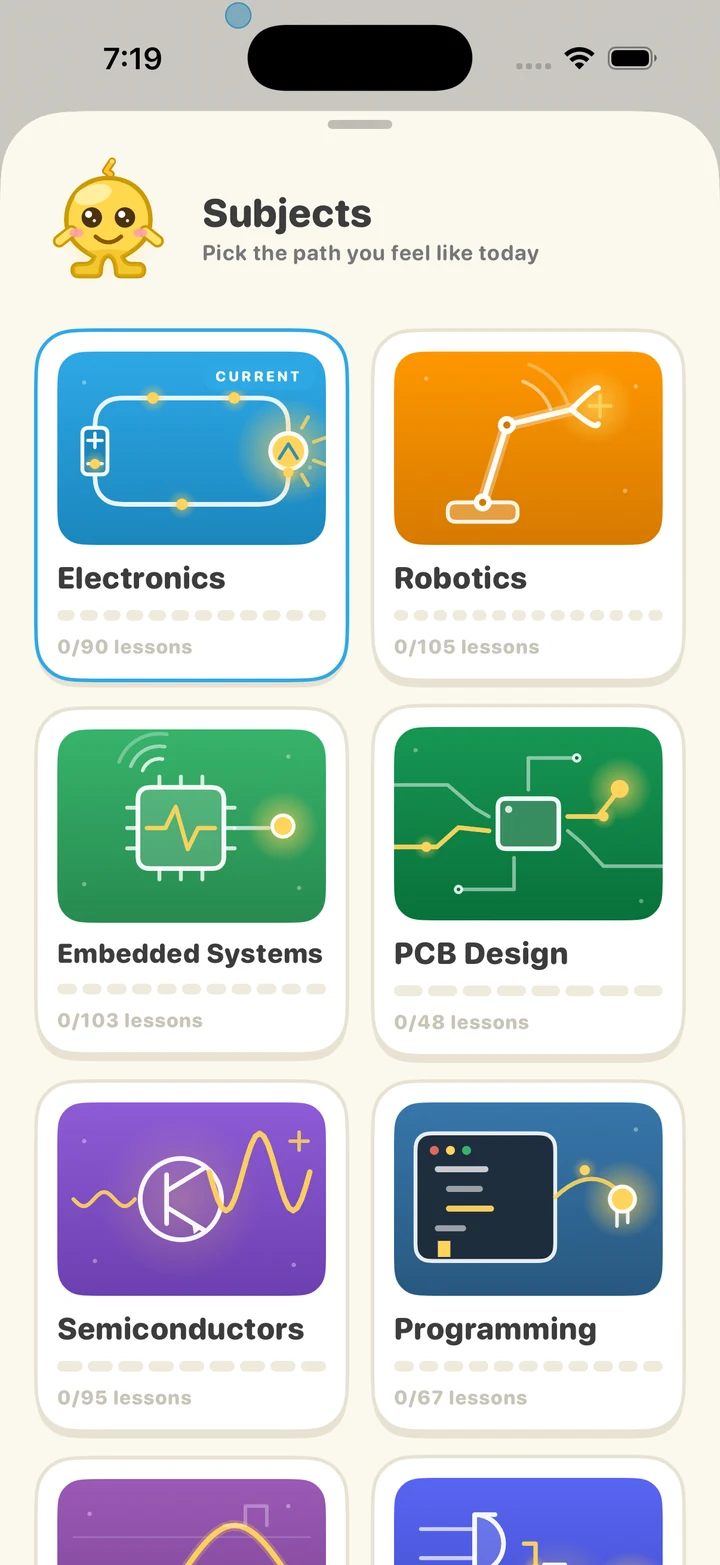
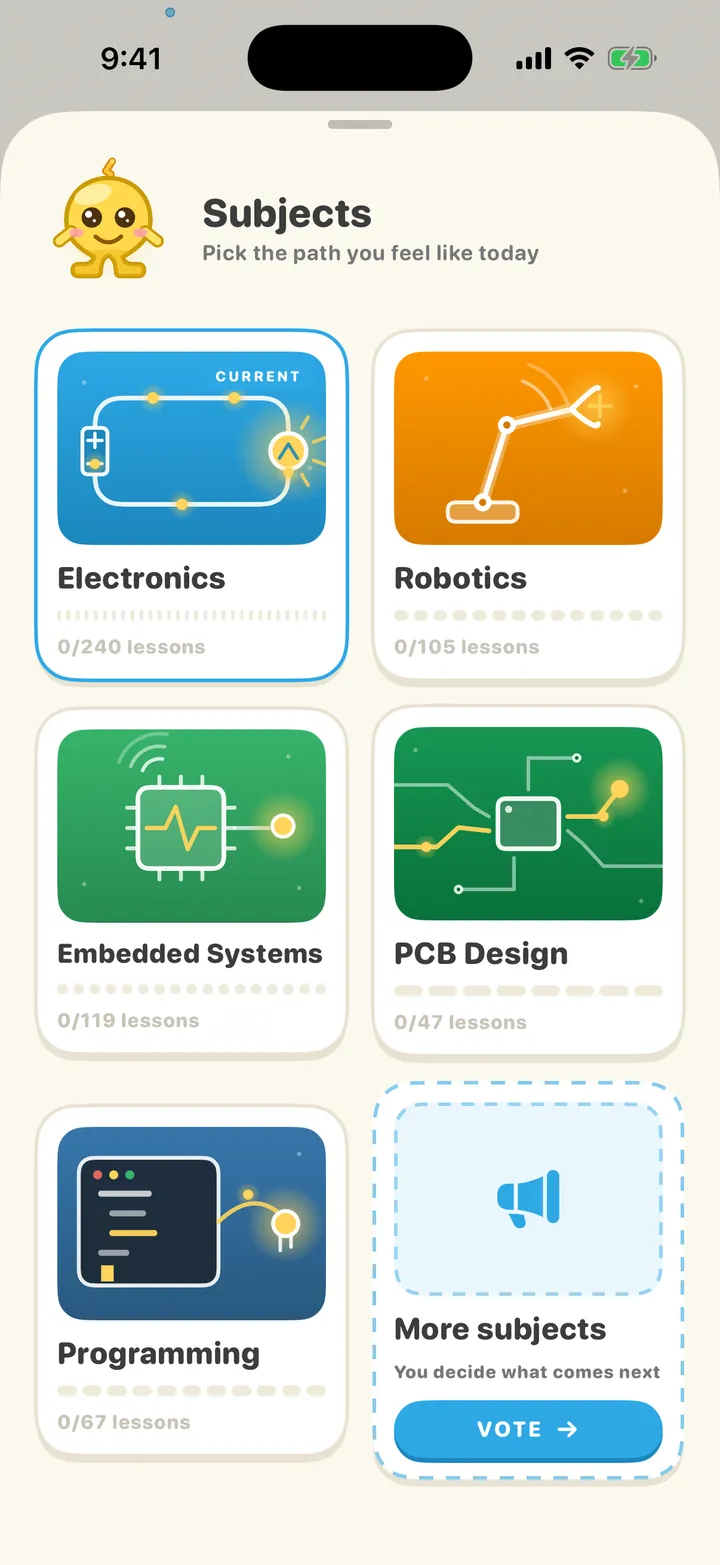
The site's nine screenshots are 1.5.9 now, and Ohmie World sits in a phone turned on its side
Every still was captured from main 798ebc2bc (the shipped 1.5.9 code) on a throwaway iPhone 17
simulator, subject mode off as in Release, Ohmie plain so the shots outlast November 1:

- cap-03 hero: Home on a fresh save (Section 1 of 4, today's quests, the Enter the Arena card)
- cap-10 Subjects: the five subjects and the vote card (Semiconductors is gone)
- cap-05 Fix the circuit: lesson 15's fault-repair bench, the same scene with the shipped copy
- cap-milestone: Explore, a 12-day streak and the Level 12 card
- cap-04: lesson one's Break the loop bench (was lesson 15's opening page), renamed lesson0
- cap-06 Explore: start a streak, join the leaderboard, the Arena card, search, topic chips
- cap-leaderboard: the app's local mock board (-lbMock); no real player's name or XP
- cap-07 Copper Town: landscape, as 1.5.9 plays it, in a sideways phone (.tile-wide,
  .phone-wrap-wide, .phone-wide: the same bezel and corners turned)
- cap-programming: the Programming sheet with the Python | C++ switch (the old language
  chooser over the grid no longer exists)

Same pixel sizes as before (720x1565, 603x1311; the world 1565x720), 403 KB in all against
419 KB. Alt texts say what each new picture shows; the hero comment names the build;
styles.css?v=20261009b.

Claude-Session: https://claude.ai/code/session_018CFMCaJJDZ6icKGPkBoWoJ

diff --git a/index.html b/index.html
@@ -33,12 +33,12 @@
   <link rel="icon" type="image/png" href="assets/favicon.png?v=20261005">
   <link rel="apple-touch-icon" href="assets/apple-touch-icon.png?v=20261005">
 
-  <!-- hero capture: the 1.5.2 home screen (redesign 2026-09-14) -->
+  <!-- hero capture: the 1.5.9 home screen (main 798ebc2bc, captured 2026-10-09) -->
   <link rel="preload" as="image" href="assets/cap-03-home-circuits-2x.webp" fetchpriority="high">
 
   <link rel="preload" as="font" type="font/woff2" href="assets/fonts/nunito-latin-var.woff2" crossorigin>
 
-  <link rel="stylesheet" href="styles.css?v=20261009">
+  <link rel="stylesheet" href="styles.css?v=20261009b">
 
   <!-- PostHog analytics — cookieless: memory-only persistence (no cookies or
        localStorage), no autocapture, no session recording. Pageviews, pageleaves,
@@ -102,7 +102,7 @@
     <div class="hero-visual">
       <div class="phone-wrap">
         <div class="phone">
-          <img src="assets/cap-03-home-circuits-2x.webp" alt="Home: Section 1 Electronics, today's three quests, and the first lesson ready to start" width="720" height="1565" fetchpriority="high" decoding="async">
+          <img src="assets/cap-03-home-circuits-2x.webp" alt="Home: Section 1 of 4, Charge &amp; Electrons, today's three quests, and the Enter the Arena card" width="720" height="1565" fetchpriority="high" decoding="async">
         </div>
       </div>
       <img src="assets/ohmie-happy.webp" alt="" class="hero-mascot" id="heroMascotImg" width="150" height="145" decoding="async">
@@ -153,14 +153,14 @@
     <div class="steps">
       <div class="step reveal">
         <div class="phone-wrap">
-          <div class="phone"><img src="assets/cap-10-subjects-2x.webp" alt="Subjects: pick the path you feel like today, from Electronics to Robotics" width="720" height="1565" loading="lazy" decoding="async"></div>
+          <div class="phone"><img src="assets/cap-10-subjects-2x.webp" alt="Subjects: pick the path you feel like today, from Electronics to Programming" width="720" height="1565" loading="lazy" decoding="async"></div>
         </div>
         <h3><span class="n">1.</span> Pick today's lesson</h3>
         <p>A short lesson picks up right where you left off.</p>
       </div>
       <div class="step reveal">
         <div class="phone-wrap">
-          <div class="phone"><img src="assets/cap-05-circuit-fix-2x.webp" alt="A fault-repair bench: power off, remove the bridge, and the lamp lights" width="720" height="1565" loading="lazy" decoding="async"></div>
+          <div class="phone"><img src="assets/cap-05-circuit-fix-2x.webp" alt="A fault-repair bench: a dark board with an open fuse, a live-source warning, and the Power off and Remove bridge buttons" width="720" height="1565" loading="lazy" decoding="async"></div>
         </div>
         <h3><span class="n">2.</span> Fix the circuit</h3>
         <p>Answer real questions and fix live circuits by hand.</p>
@@ -186,7 +186,7 @@
       <div class="tile tile-blue">
         <div class="phone-wrap">
           <div class="phone">
-            <img src="assets/cap-04-lesson15-2x.webp" alt="A lesson page in Ohmie: every dead gadget died one of two deaths, an open-bridge circuit below, and a Continue button" width="720" height="1565" loading="lazy" decoding="async">
+            <img src="assets/cap-04-lesson0-2x.webp" alt="Lesson one's bench: Break the loop. Anywhere. A battery, a glowing lamp, and four bridges to tap open" width="720" height="1565" loading="lazy" decoding="async">
           </div>
         </div>
       </div>
@@ -201,11 +201,11 @@
     <div class="row row-flip reveal">
       <div class="tile tile-deep tile-duo">
         <div class="phone-wrap">
-          <div class="phone"><img src="assets/cap-06-explore-2x.webp" alt="Explore tab: a start-a-streak week row, join this week's leaderboard, search, and topic chips like Electricity Basics and Ohm's Law" width="720" height="1565" loading="lazy" decoding="async"></div>
+          <div class="phone"><img src="assets/cap-06-explore-2x.webp" alt="Explore tab: a start-a-streak week row, join this week's leaderboard, the Enter the Arena card, search, and topic chips like Electricity Basics and Resistors" width="720" height="1565" loading="lazy" decoding="async"></div>
         </div>
         <div class="phone-wrap">
           <div class="phone">
-            <img src="assets/cap-leaderboard-w.webp" alt="The weekly leaderboard: this week's top 50, ranked by XP" width="720" height="1565" loading="lazy" decoding="async">
+            <img src="assets/cap-leaderboard-w.webp" alt="The weekly leaderboard: this week's top 50 ranked by XP, with your own row and how far ahead the next player is" width="720" height="1565" loading="lazy" decoding="async">
           </div>
         </div>
       </div>
@@ -217,10 +217,10 @@
     </div>
 
     <div class="row reveal">
-      <div class="tile tile-amber">
-        <div class="phone-wrap">
-          <div class="phone">
-            <img src="assets/cap-07-world-town-2x.webp" alt="Copper Town in Ohmie World: the training hall, the arena sign, and Ohmie's welcome" width="720" height="1565" loading="lazy" decoding="async">
+      <div class="tile tile-amber tile-wide">
+        <div class="phone-wrap phone-wrap-wide">
+          <div class="phone phone-wide">
+            <img src="assets/cap-07-world-town-2x.webp" alt="Copper Town in Ohmie World, played sideways: your inventor at the training hall, the goal Light your first LED at Pip's bench, and the move stick" width="1565" height="720" loading="lazy" decoding="async">
           </div>
         </div>
       </div>
@@ -287,7 +287,7 @@
         </div>
         <div class="tab-media">
           <div class="phone-wrap">
-            <div class="phone"><img src="assets/cap-10-subjects-2x.webp" alt="The Subjects picker: Electronics, Robotics, Embedded Systems, PCB Design, Semiconductors, Programming" width="720" height="1565" loading="lazy" decoding="async"></div>
+            <div class="phone"><img src="assets/cap-10-subjects-2x.webp" alt="The Subjects picker: Electronics, Robotics, Embedded Systems, PCB Design, Programming, and a card to vote on what comes next" width="720" height="1565" loading="lazy" decoding="async"></div>
           </div>
         </div>
       </div>
@@ -314,7 +314,7 @@
         </div>
         <div class="tab-media">
           <div class="phone-wrap">
-            <div class="phone"><img src="assets/cap-programming-w.webp" alt="The Programming picker over the Subjects grid: Python and C++ for Arduino" width="720" height="1565" loading="lazy" decoding="async"></div>
+            <div class="phone"><img src="assets/cap-programming-w.webp" alt="The Programming sheet: a Python and C++ switch over the Python courses, from Python Basics to Working with Text" width="720" height="1565" loading="lazy" decoding="async"></div>
           </div>
         </div>
       </div>

diff --git a/styles.css b/styles.css
@@ -183,6 +183,11 @@ html.js .reveal.in-view { opacity: 1; transform: none; }
   .row-flip .tile { order: 2; }
   .row-flip .row-copy { order: 1; }
 }
+/* Ohmie World plays sideways (1.5.9): the same phone on its side, same bezel and corners. */
+.tile.tile-wide { aspect-ratio: auto; }
+.tile .phone-wrap-wide { width: 100%; height: auto; aspect-ratio: 1311 / 603; }
+.phone-wide { aspect-ratio: 1311 / 603; border-radius: 5.75%/12.5%; }
+.phone-wide > img { border-radius: 4.8%/10.5%; }
 
 /* ============ 5. subjects ============ */
 .subjects { background: var(--cream-deep); }
